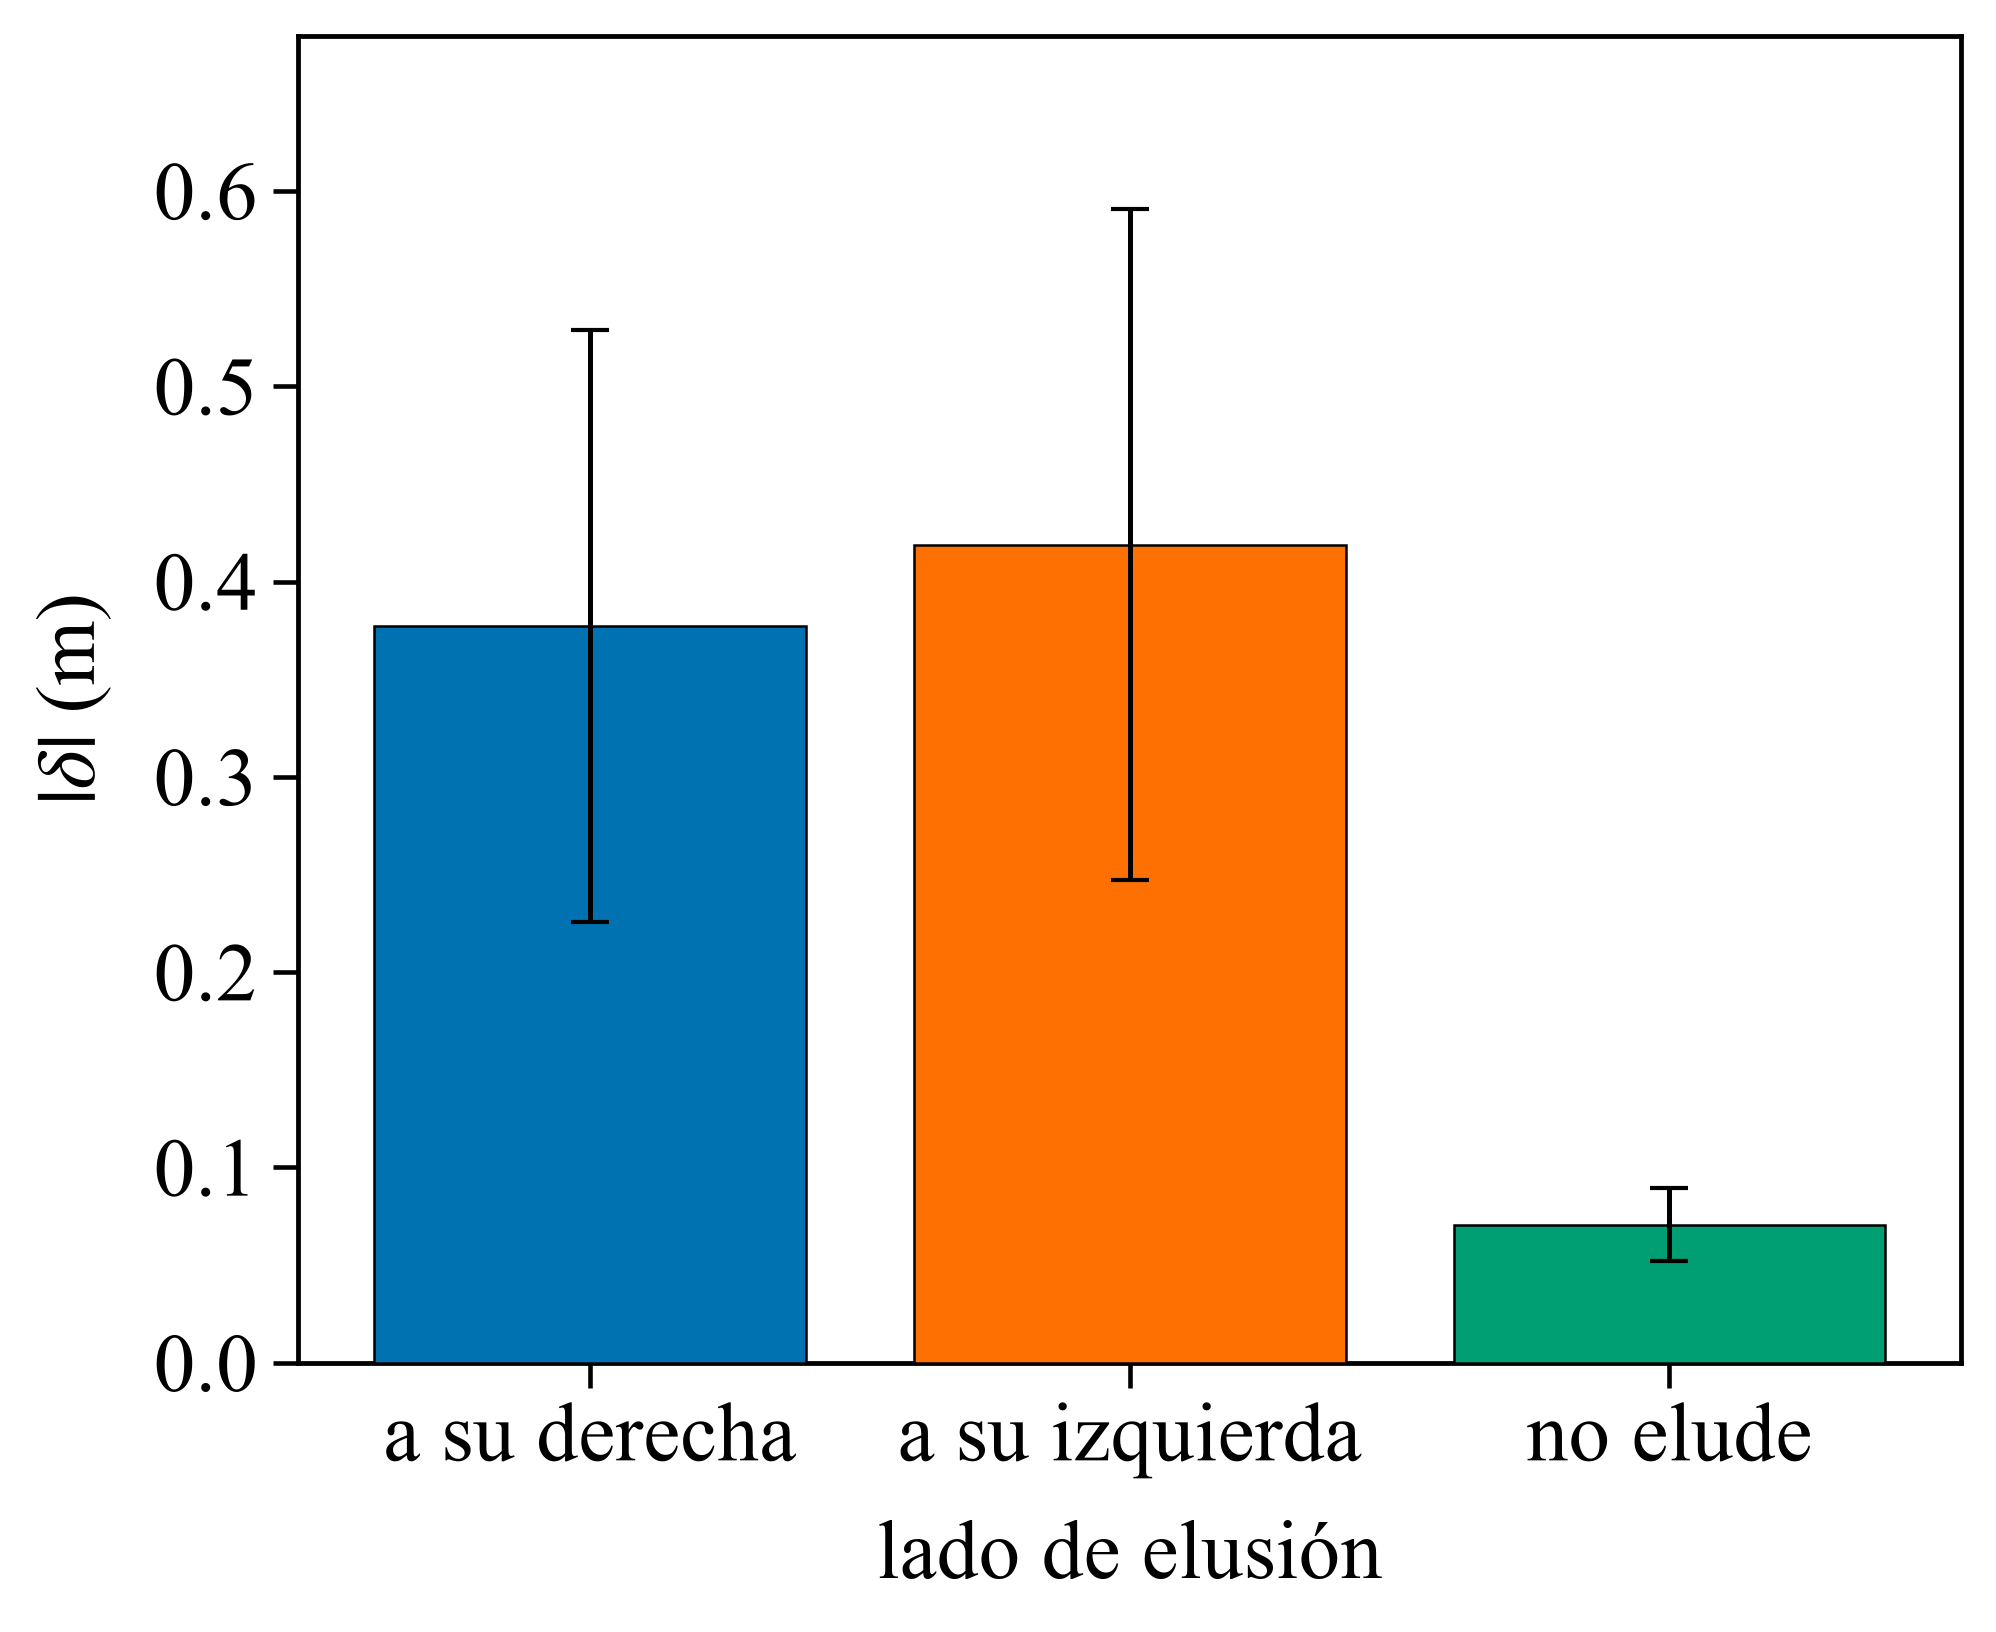
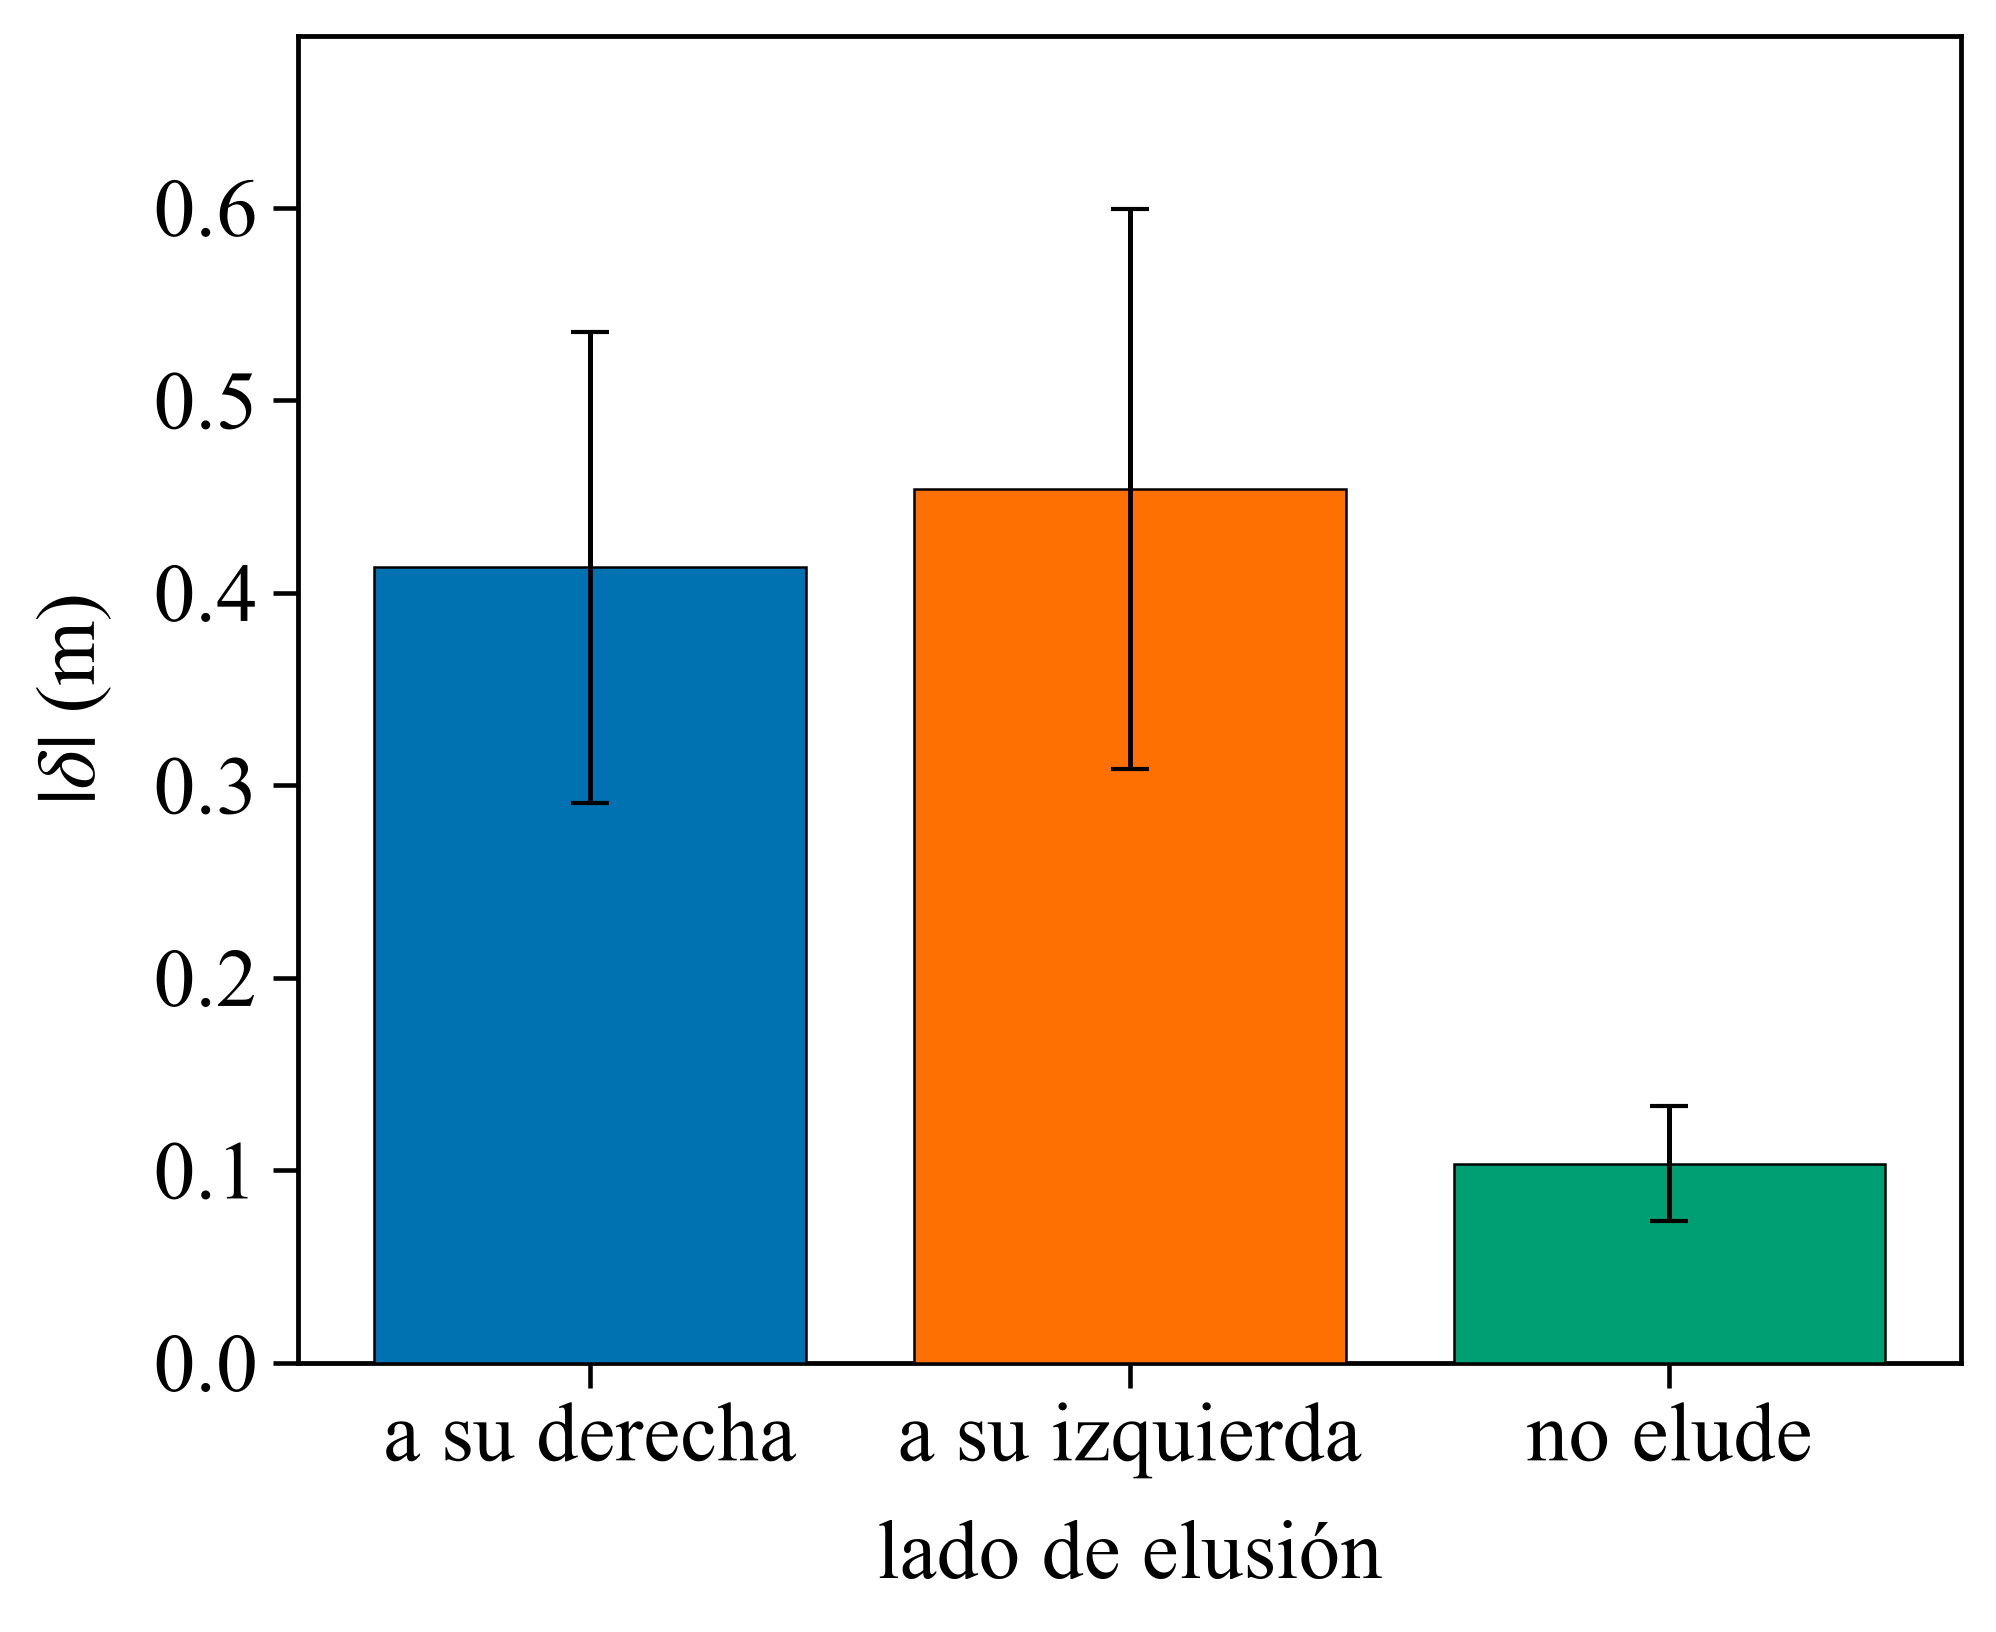
Updated threshold

diff --git a/scripts/analyze_behavior.py b/scripts/analyze_behavior.py
@@ -23,9 +23,9 @@ from lib.plot_style import (
 )
 from lib.traj import DEFAULT_CROSSINGS_DIR, DEFAULT_TRIALS_PATH, Position, read_experiment, read_trials
 
-NO_EVADE_M = 0.10
-AMBIGUOUS_LO_M = 0.08
-AMBIGUOUS_HI_M = 0.12
+NO_EVADE_M = 0.15
+AMBIGUOUS_LO_M = NO_EVADE_M - 0.02
+AMBIGUOUS_HI_M = NO_EVADE_M + 0.02
 
 _SIDE_HEADER = re.compile(r"#\s*(izquierda|derecha):\s*id\s+([^,\s]+)", re.IGNORECASE)
 
@@ -359,11 +359,15 @@ def write_table(path: Path, trials: list[Trial]) -> None:
         ]
     )
     if ambiguous:
-        lines.append("# ambiguos |delta| en [0.08, 0.12] m: prueba id |delta_pico|")
+        lines.append(
+            f"# ambiguos |delta| en [{AMBIGUOUS_LO_M:.2f}, {AMBIGUOUS_HI_M:.2f}] m: prueba id |delta_pico|"
+        )
         for number, person, value in ambiguous:
             lines.append(f"# {number} {person} {value:.6f}")
     else:
-        lines.append("# ambiguos |delta| en [0.08, 0.12] m: ninguno")
+        lines.append(
+            f"# ambiguos |delta| en [{AMBIGUOUS_LO_M:.2f}, {AMBIGUOUS_HI_M:.2f}] m: ninguno"
+        )
 
     path.write_text("\n".join(lines) + "\n", encoding="utf-8")
 
@@ -487,8 +491,8 @@ def plot_deviation_distribution(trials: list[Trial], out_path: Path) -> None:
     ]
     if not values:
         raise ValueError("no deviations to bin")
-    # Coarsest width that puts 0.10 m on a bin edge and keeps the empty gap
-    # (0.15 m, 0.20 m) as its own bin. Scott (~0.18 m) and Freedman-Diaconis
+    # 0.05 m puts the 0.15 m cut on a bin edge and leaves the empty gap
+    # (0.15 m, 0.20 m) as the next bin. Scott (~0.18 m) and Freedman-Diaconis
     # (~0.13 m) would swallow the threshold and that gap.
     width = 0.05
     n_bins = math.ceil(max(values) / width - 1e-9)

diff --git a/README.md b/README.md
@@ -154,7 +154,7 @@ python scripts/get_initial_speeds.py
 
 Lado y magnitud del desvío lateral en las pasadas reales. Para cada peatón, 
 delta es la distancia con signo a la cuerda inicio-fin, positiva hacia su 
-derecha (normal rx = uy, ry = -ux). Si |delta| < 0.10 m, cuenta como que 
+derecha (normal rx = uy, ry = -ux). Si |delta| < 0.15 m, cuenta como que 
 no elude.
 
 ```bash
